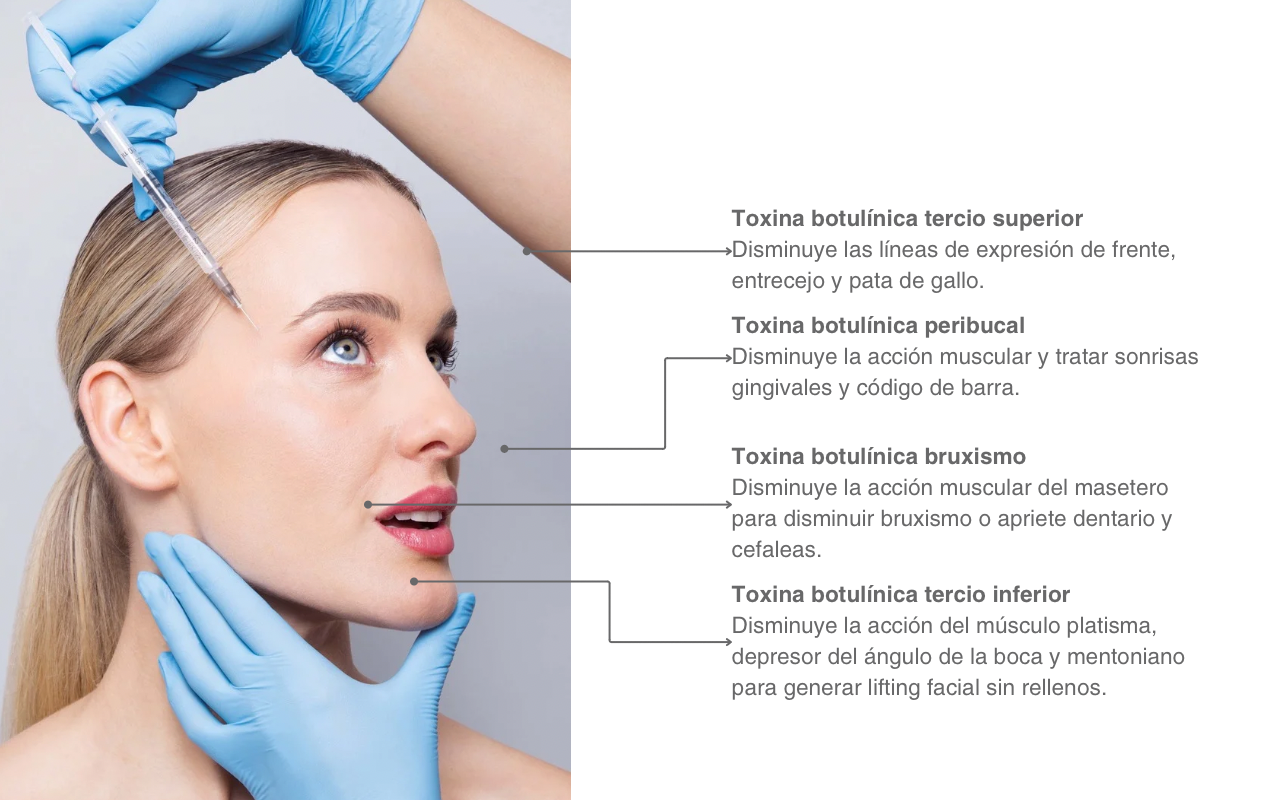
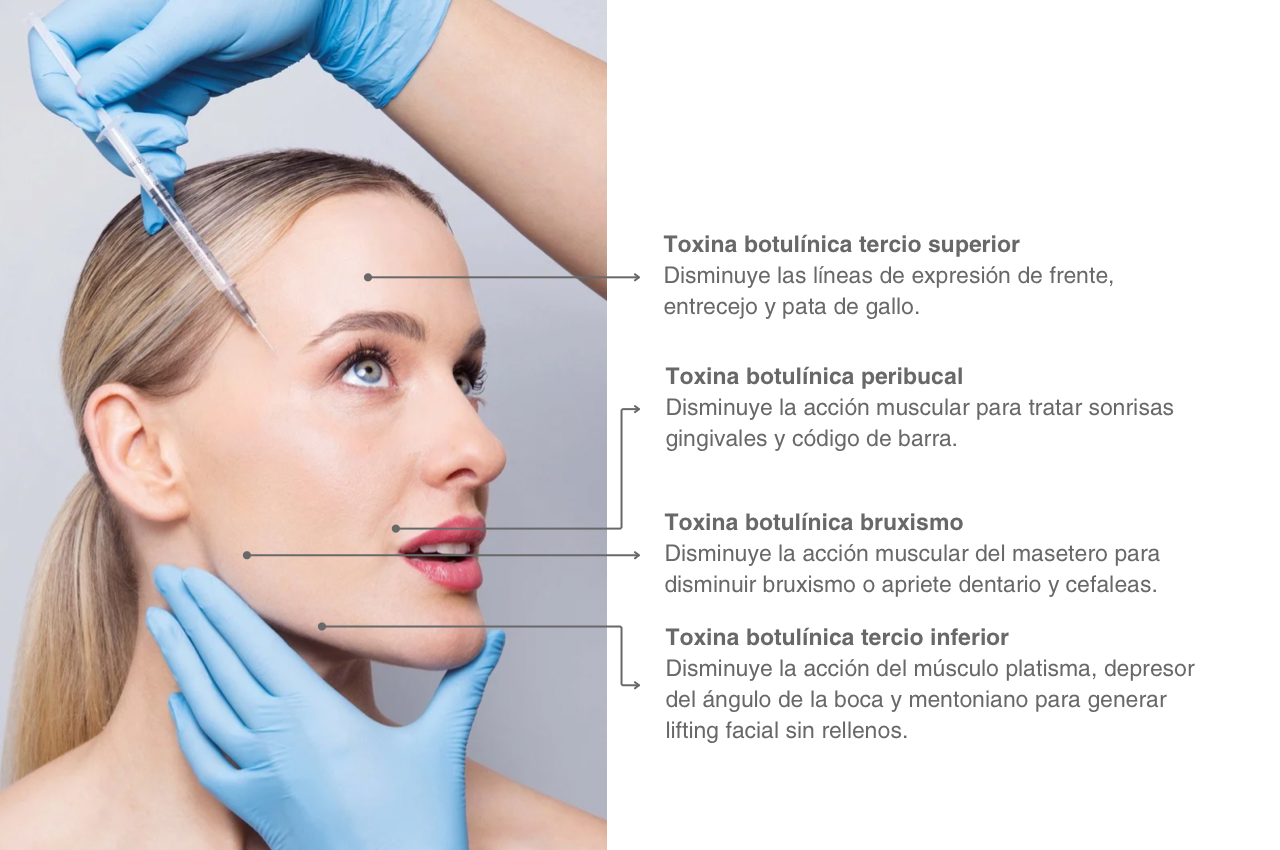
new images estetica

Changed region(s): [[0.0312, 0.0, 0.9375, 1.0], [0.2188, 0.9375, 0.25, 0.9688], [0.0312, 0.875, 0.0625, 0.9062]]

diff --git a/lib/aesthetics.tsx b/lib/aesthetics.tsx
@@ -1,44 +1,57 @@
 import first from "@/public/medicina-estetica/estetica1.png";
+import firstPc from "@/public/medicina-estetica/estetica-pc1.png";
 import second from "@/public/medicina-estetica/estetica2.png";
+import secondPc from "@/public/medicina-estetica/estetica-pc2.png";
 import third from "@/public/medicina-estetica/estetica3.png";
+import thirdPc from "@/public/medicina-estetica/estetica-pc3.png";
 import fourth from "@/public/medicina-estetica/estetica4.png";
+import fourthPc from "@/public/medicina-estetica/estetica-pc4.png";
 import fifth from "@/public/medicina-estetica/estetica5.png";
+import fifthPc from "@/public/medicina-estetica/estetica-pc5.png";
 import sixth from "@/public/medicina-estetica/estetica6.png";
+import sixthPc from "@/public/medicina-estetica/estetica-pc6.png";
 import { StaticImageData } from "next/image";
 
 export const aesthetics: {
   name: string;
   // description: string;
   image: { src: StaticImageData; alt: string };
+  imageMobile: { src: StaticImageData; alt: string };
 }[] = [
   {
     name: "",
     // description: "Realizado con brackets de acero inoxidable.",
     image: { src: first, alt: "image alt" },
+    imageMobile: { src: firstPc, alt: "image alt" },
   },
   {
     name: "",
     // description: "Realizado con brackets de acero inoxidable.",
     image: { src: second, alt: "image alt" },
+    imageMobile: { src: secondPc, alt: "image alt" },
   },
   {
     name: "",
     // description: "Realizado con/brackets de acero inoxidable.",
     image: { src: third, alt: "image alt" },
+    imageMobile: { src: thirdPc, alt: "image alt" },
   },
   {
     name: "",
     // description: "Realizado con/brackets de acero inoxidable.",
     image: { src: fourth, alt: "image alt" },
+    imageMobile: { src: fourthPc, alt: "image alt" },
   },
   {
     name: "",
     // description: "Realizado con brackets de acero inoxidable.",
     image: { src: fifth, alt: "image alt" },
+    imageMobile: { src: fifthPc, alt: "image alt" },
   },
   {
     name: "",
     // description: "Realizado con brackets de acero inoxidable.",
     image: { src: sixth, alt: "image alt" },
+    imageMobile: { src: sixthPc, alt: "image alt" },
   },
 ];

diff --git a/app/ui/services/AestheticsCard.tsx b/app/ui/services/AestheticsCard.tsx
@@ -6,6 +6,10 @@ interface Treatment {
     src: StaticImageData;
     alt: string;
   };
+  imageMobile: {
+    src: StaticImageData;
+    alt: string;
+  };
 }
 
 interface TreatmentCardProps {
@@ -20,8 +24,13 @@ const AestheticsCard: React.FC<TreatmentCardProps> = ({ treatment }) => {
           <Image
             src={treatment.image.src}
             alt={treatment.image.alt}
-            className="object-contain"
+            className="object-contain" // hidden lg:block
           />
+          {/*<Image*/}
+          {/*  src={treatment.imageMobile.src}*/}
+          {/*  alt={treatment.image.alt}*/}
+          {/*  className="block lg:hidden object-contain"*/}
+          {/*/>*/}
         </div>
       </div>
     </div>
